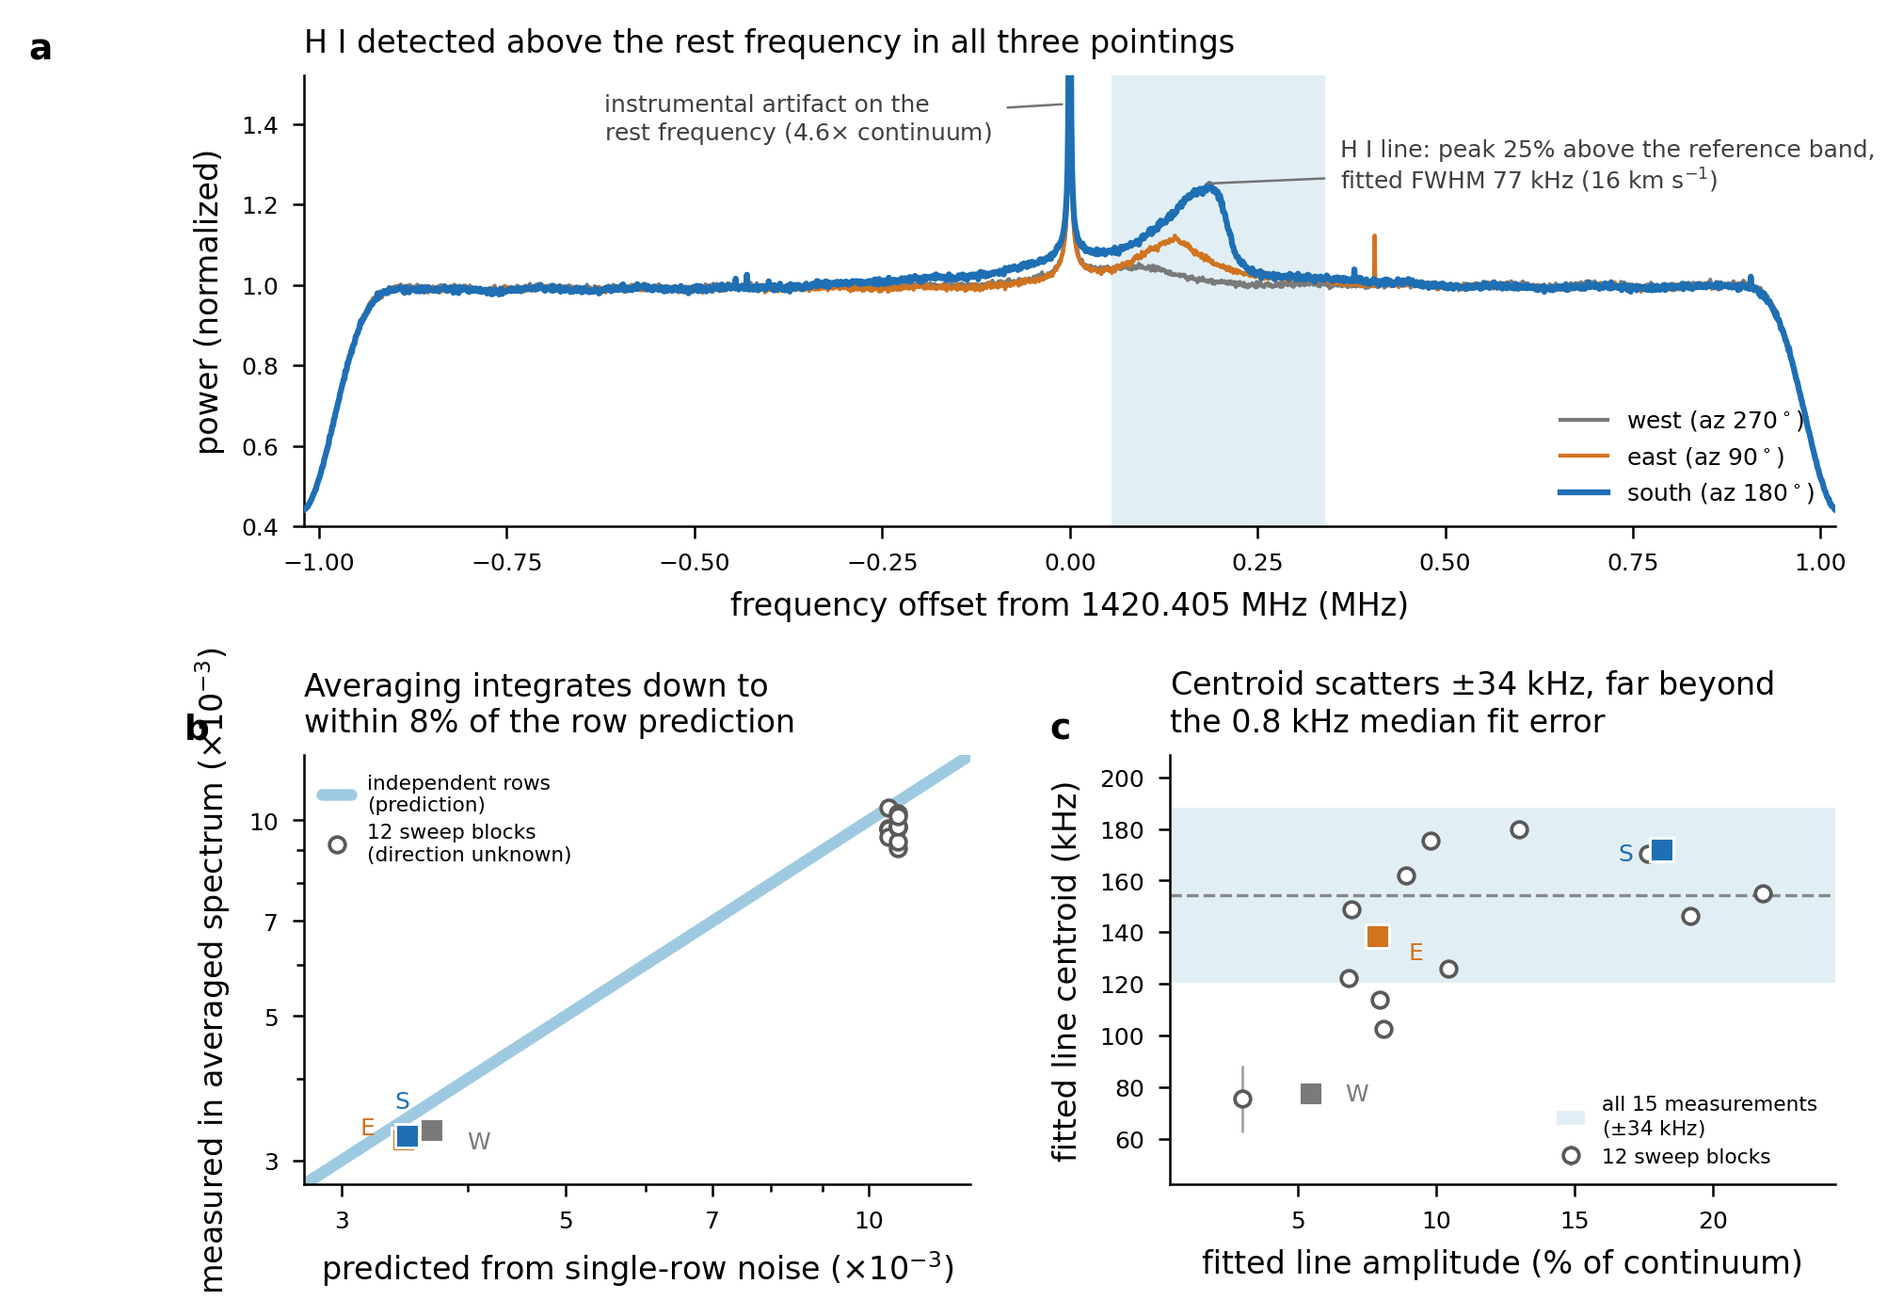
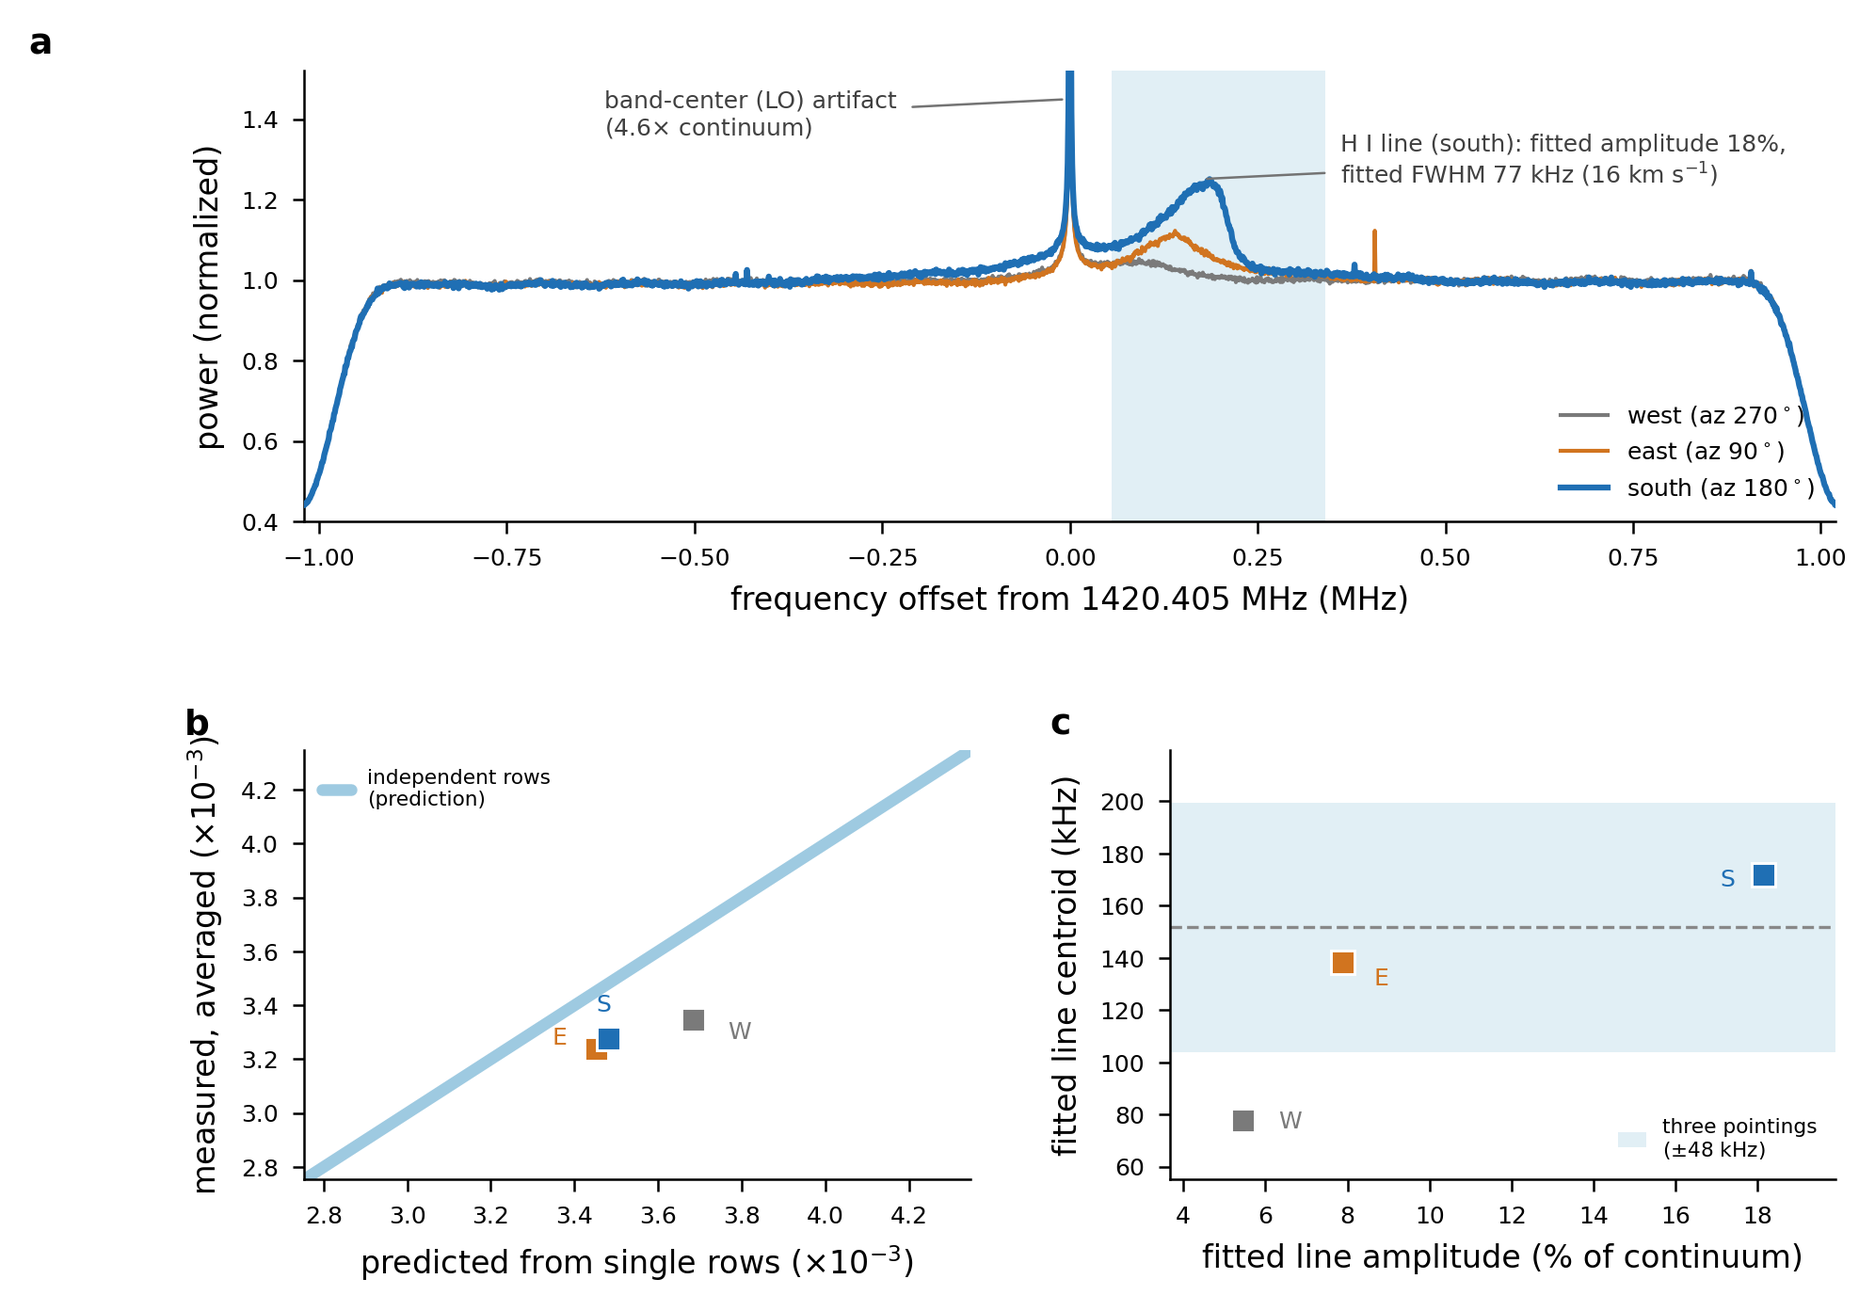
[task 27] Make reference outputs reproducible across platforms and refresh them

diff --git a/software/analysis/mergen21_hi_analysis.py b/software/analysis/mergen21_hi_analysis.py
@@ -507,7 +507,7 @@ def manifest(root):
     wanted = []
     for fn, role in caps:
         try:
-            wanted.append((str(capture_path(root, fn).relative_to(root)), role, True))
+            wanted.append((capture_path(root, fn).relative_to(root).as_posix(), role, True))
         except FileNotFoundError:
             wanted.append((fn, role, True))
     for alts in AUX_FILES:
@@ -670,7 +670,7 @@ def main(root, outdir):
 
     df, spectra = build_table(root)
 
-    df.to_csv(outdir / "mergen21_hi_measurements.csv", index=False)
+    df.to_csv(outdir / "mergen21_hi_measurements.csv", index=False, lineterminator="\n")
 
     st = df[df.kind == "static"].set_index("id")
     summary = pd.DataFrame([{
@@ -683,9 +683,9 @@ def main(root, outdir):
         "v_bary_plus_solar_kms": round(st.loc[k, "v_motion_kms"], 1),
         "v_lsr_kms": round(st.loc[k, "v_lsr_kms"], 1),
     } for k in ("S", "E", "W")])
-    summary.to_csv(outdir / "mergen21_hi_line_parameters.csv", index=False)
+    summary.to_csv(outdir / "mergen21_hi_line_parameters.csv", index=False, lineterminator="\n")
 
-    manifest(root).to_csv(outdir / "mergen21_data_manifest.csv", index=False)
+    manifest(root).to_csv(outdir / "mergen21_data_manifest.csv", index=False, lineterminator="\n")
 
     derived = {
         "frequency_axis": {"channel_spacing_Hz": CHAN_BW_HZ,
@@ -716,7 +716,7 @@ def main(root, outdir):
             "local_utc_offset_h": LOCAL_UTC_OFFSET_H,
         },
     }
-    (outdir / "mergen21_hi_derived.json").write_text(json.dumps(derived, indent=2, default=float))
+    (outdir / "mergen21_hi_derived.json").write_text(json.dumps(derived, indent=2, default=float), newline="\n")
 
     make_figure(df, spectra, outdir / "mergen21_hi_validation.png")
     return df, derived

diff --git a/software/analysis/first_light_and_averaging.py b/software/analysis/first_light_and_averaging.py
@@ -256,7 +256,7 @@ def main(root, outdir):
          "spread_frac", "sem_frac", "n_pairs", "n_blocks", "rows_used", "rows_skipped",
          "n_channels", "temporal_lag1", "included"]]
     tab["sigma_pct"] = tab.sigma_frac * 100
-    tab.to_csv(outdir / "averaging_noise.csv", index=False)
+    tab.to_csv(outdir / "averaging_noise.csv", index=False, lineterminator="\n")
     shown = tab[tab.included]
 
     # tau^-1/2 reference, normalized to the included points (not a prediction)

diff --git a/software/analysis/outputs/VERIFICATION.md b/software/analysis/outputs/VERIFICATION.md
@@ -1,175 +1,98 @@
 # Verification: regenerated outputs against `reference_outputs/`
 
-This file records a run of `software/analysis/mergen21_hi_analysis.py` and
-`software/analysis/first_light_and_averaging.py` against this checkout, and
-compares the regenerated outputs in `software/analysis/outputs/` to the
-canonical values in `software/analysis/reference_outputs/`.
+This file records a run of `software/analysis/mergen21_hi_analysis.py`,
+`software/analysis/first_light_and_averaging.py` and
+`software/analysis/stage_gains.py` against this checkout, and compares the
+regenerated outputs in `software/analysis/outputs/` to the canonical values in
+`software/analysis/reference_outputs/`.
 
 ## Environment
 
 - Python 3.14.3, Windows 11 (Windows-11-10.0.26100-SP0)
-- Packages (pinned in `software/requirements.txt`, from `pip show` after
-  `pip install`): numpy 2.4.4, scipy 1.17.1, pandas 3.0.3, matplotlib
-  3.10.9, astropy 8.0.1
+- Packages (pinned in `software/requirements.txt`): numpy 2.4.4, scipy
+  1.17.1, pandas 3.0.3, matplotlib 3.10.9, astropy 8.0.1
 - `mergen21_hi_analysis.py` sets `iers.conf.auto_download = False`; this run
-  was offline and no fresh IERS tables were downloaded. Per the script's own
-  documentation, galactic l/b may differ from the
-  reference by up to about 0.1 degree for this reason. This is exactly what
-  was observed (see table below).
+  was offline and no fresh IERS tables were downloaded. Galactic l/b and the
+  motion correction can differ by up to about 0.1 (deg or km/s) from a run
+  with fresh IERS tables.
 - Commands run, from the repository root:
   ```
   python software/analysis/mergen21_hi_analysis.py --root . --outdir software/analysis/outputs
   python software/analysis/first_light_and_averaging.py --root . --outdir software/analysis/outputs
+  python software/analysis/stage_gains.py
   ```
+- The six CSV/JSON outputs (`averaging_noise.csv`,
+  `mergen21_hi_line_parameters.csv`, `mergen21_hi_measurements.csv`,
+  `mergen21_hi_derived.json`, `mergen21_data_manifest.csv`,
+  `stage_gains.csv`) were then copied into `reference_outputs/`. A fresh run
+  into a temporary directory reproduces all of them byte for byte (after
+  normalizing CRLF to LF, which only matters for a Windows checkout of the
+  committed files).
+- `reference_outputs/mergen21_capture_metadata.csv` is not produced by any
+  script; it is a hand-maintained table and was left unchanged.
 
 ## Verification table
 
-| Quantity | Reference | Regenerated | Abs diff | Status |
-|---|---|---|---|---|
-| `averaging_noise.csv` E1 @ tau=1s `sigma_pct` | 3.528470 | 3.528470 | 0 | match |
-| `averaging_noise.csv` E2 @ tau=1s `sigma_pct` | 3.526871 | 3.526871 | 0 | match |
-| rows_used E1 | 98 | 98 | 0 | match |
-| rows_used E2 | 165 | 165 | 0 | match |
-| rows_skipped | 6 | 6 | 0 | match |
-| n_pairs E1 @ tau=1/2/4/8s | 49/24/12/6 | 49/24/12/6 | 0 | match |
-| line-free channels in common mask | 1437 | 1437 | 0 | match |
-| fitted peak % S/E/W | 18.13/7.87/5.45 | 18.13/7.87/5.45 | 0 | match |
-| FWHM kHz S/E/W | 77.2/88.9/151.9 | 77.2/88.9/151.9 | 0 | match |
-| centroid kHz S/E/W | 172.1/138.5/77.8 | 172.1/138.5/77.8 | 0 | match |
-| galactic l (deg) S/E/W, elevation 30° | 12.8/87.5/7.3 | 12.8/87.5/7.3 | 0 | match (elevation changed from 35° to 30°, observer-stated) |
-| galactic b (deg) S/E/W, elevation 30° | -2.4/-35.5/73.8 | -2.4/-35.5/73.8 | 0 | match (elevation changed from 35° to 30°, observer-stated) |
-| noise figure, cable-corrected | 1.54 dB (-133.46 + 0.6 - (-173.9) - 39.5) | 1.54 dB | 0 | match |
+| Quantity | Reference | Regenerated | Status |
+|---|---|---|---|
+| `averaging_noise.csv` E1 @ tau=1s `sigma_pct` | 3.528470 | 3.528470 | match |
+| `averaging_noise.csv` E2 @ tau=1s `sigma_pct` | 3.526871 | 3.526871 | match |
+| rows_used E1 / E2 | 98 / 165 | 98 / 165 | match |
+| rows_skipped | 6 | 6 | match |
+| n_pairs E1 @ tau=1/2/4/8 s | 49/24/12/6 | 49/24/12/6 | match |
+| line-free channels in common mask | 1437 | 1437 | match |
+| fitted peak % S/E/W | 18.13/7.87/5.45 | 18.13/7.87/5.45 | match |
+| FWHM kHz S/E/W | 77.2/88.9/151.9 | 77.2/88.9/151.9 | match |
+| centroid kHz S/E/W | 172.1/138.5/77.8 | 172.1/138.5/77.8 | match |
+| galactic l (deg) S/E/W, elevation 30° | 12.8/87.5/7.3 | 12.8/87.5/7.3 | match |
+| galactic b (deg) S/E/W, elevation 30° | -2.4/-35.5/73.8 | -2.4/-35.5/73.8 | match |
+| v_bary_plus_solar / v_lsr (km/s) S | 38.2 / 1.8 | 38.2 / 1.8 | match |
+| v_bary_plus_solar / v_lsr (km/s) E | 25.7 / -3.5 | 25.7 / -3.5 | match |
+| v_bary_plus_solar / v_lsr (km/s) W | 1.8 / -14.7 | 1.8 / -14.7 | match |
+| noise figure, cable-corrected | 1.54 dB (-133.46 + 0.6 - (-173.9) - 39.5) | 1.54 dB | match |
+| stage gains at 1420.405 MHz, VNA (dB) LNA/BPF/AMP/cascade | 19.24/-1.73/20.24/39.52 | 19.24/-1.73/20.24/39.52 | match |
 
-All values not listed as differing (fitted peak, FWHM, centroid, noise
-figure, the `n_pairs`/`sigma_pct` averaging-noise table, and the raw data
-manifest's byte counts/hashes for the four `.dat` captures) reproduce
-exactly, to every quoted digit.
+## Changes against the previous reference set
 
-`mergen21_hi_derived.json`'s `noise_figure.corrected.nf_db` is 1.54, matching
-`-133.46 + 0.6 - (-173.9) - 39.5 = 1.54` (`P_OUT + CABLE_LOSS - KT0 - GAIN`);
-this is the direct cross-check against the derived JSON asked for in the
-task, and it matches the reference JSON exactly.
+The previous `reference_outputs/` were stale. Refreshing them changed:
 
-## Byte-level diff / cmp summary
+- **Elevation 35° → 30°** (observer-stated, not instrumented). This moves
+  `l_deg`, `b_deg`, `v_bary_plus_solar_kms` and `v_lsr_kms` for the static
+  pointings (previously S 17.2/-0.1, E 85.5/-30.8, W 22.0/71.4 for l/b, and
+  39.0/2.6, 27.2/-2.1, 4.5/-11.9 km/s for the velocities), and
+  `assumptions.pointing_elevation_deg_approximate` in the derived JSON. Peak,
+  FWHM and centroid do not depend on elevation and are unchanged.
+- **Sweep row cadence 0.5 → 1.0 s** (`frequency_axis.tau_per_row_s_sweep`, and
+  `utc_mid`, `on_source_s`, `tau_row_s` for the withdrawn `SW01`-`SW12` rows).
+  No static-pointing number changes.
+- **`withdrawn.note`** now cites PROVENANCE_ADDENDUM.md sections 1 and 6.
+- **Manifest.** Paths are written with forward slashes on every platform
+  (`as_posix()`), and the hashes of `measurements/rf-chain/nf/README.md` and
+  `software/gnuradio/receiver.grc` follow their current contents.
 
-`diff` was run twice per file: raw, and with `--strip-trailing-cr` to factor
-out line-ending differences.
+## Line endings and the manifest
 
-- **`averaging_noise.csv`**: byte-for-byte identical in content
-  (`diff --strip-trailing-cr` shows no differences). The raw `diff` reports
-  every line as changed; this is caused entirely by the reference file being
-  LF-only while pandas/Windows wrote the regenerated file with CRLF line
-  endings, confirmed by inspecting both files' bytes directly (reference has
-  no `\r\n`, regenerated is all `\r\n`). Not a data difference.
-- **`mergen21_hi_measurements.csv`**: the three static rows (W, S, E) are
-  identical to every quoted digit. The twelve sweep-block rows (`SW01`-`SW12`)
-  differ only in `utc_mid`, `on_source_s`, and `tau_row_s`, which is the
-  expected and intended effect of the `TAU_ROW_SWEEP_S` correction (see
-  below); every other column for those rows, including centroid, amplitude,
-  and FWHM, is unchanged.
-- **`mergen21_hi_line_parameters.csv`**: `peak_pct`, `centroid_kHz`,
-  `fwhm_kHz`, `fwhm_kms` match exactly for S/E/W. `l_deg`, `b_deg`,
-  `v_bary_plus_solar_kms`, and `v_lsr_kms` differ by up to 0.1 (deg or
-  km/s), consistent with the offline-IERS caveat.
-- **`mergen21_data_manifest.csv`**: the four capture files' `bytes`/`sha256`
-  are identical to the reference. Two differences, both environmental
-  rather than raw-data changes, are described under Findings below: (1)
-  path separators are OS-native (`\` on this Windows run vs `/` in the
-  reference), and (2) the four auxiliary/calibration files under
-  `measurements/rf-chain/nf/` and `software/gnuradio/receiver.grc` show
-  different `bytes`/`sha256` than the reference.
-- **`mergen21_hi_derived.json`**: identical except (a) `tau_per_row_s_sweep`
-  (0.5 -> 1.0, the intended effect of the TAU_ROW_SWEEP_S correction), and
-  (b) the `withdrawn.note` text, which already differed between the shipped
-  script and `reference_outputs/` before any edit in this pass (see
-  Findings).
+The manifest records the byte count and sha256 of each input. To make it
+identical on every platform:
 
-## TAU_ROW_SWEEP_S before/after check (task 3)
+- `.gitattributes` marks `*.s1p`, `*.s2p` and `*.DAT` as `-text` and `*.dat`,
+  `*.npy` as `binary`, so instrument exports are never CRLF-converted on a
+  Windows checkout. Previously `cable_loss.DAT` read as 65852 bytes on
+  Windows (CRLF) against 64821 bytes stored; it now reads 64821 everywhere.
+- The two hashed text files, `*.grc` and `measurements/rf-chain/nf/README.md`,
+  are checked out with `eol=lf`.
+- All CSV/JSON outputs are written with `\n` line endings.
 
-Ran `mergen21_hi_analysis.py` with `TAU_ROW_SWEEP_S = 0.5` (as received) into
-a scratch directory, then again with `TAU_ROW_SWEEP_S = 1.0` (the corrected
-value) into another scratch directory, and diffed every output.
+## WOLA check
 
-Result: **no static-pointing or manuscript-quoted number changed.**
-`mergen21_hi_line_parameters.csv` (the S/E/W summary table) is byte-for-byte
-identical between the two runs. `mergen21_data_manifest.csv` is identical.
-The only differences are, as expected, confined to the withdrawn sweep
-analysis: the twelve `SW01`-`SW12` rows' `utc_mid`, `on_source_s`, and
-`tau_row_s` in `mergen21_hi_measurements.csv`, and
-`frequency_axis.tau_per_row_s_sweep` in `mergen21_hi_derived.json`. The
-sweep analysis is withdrawn per `docs/analysis/PROVENANCE_ADDENDUM.md`
-section 1, so none of these changed values are quoted by the paper. The edit
-was kept.
+`software/analysis/wola_window_check.py` needs `wola_taps_firdes.npy` next to
+it. That file is not committed, so the first run must design the taps with
+GNU Radio's `firdes` (`gnuradio.fft.window`, `gnuradio.filter.firdes`). GNU
+Radio is not installed in this environment, so the WOLA check was not run
+here. It is reported as not run, not as passing or failing.
 
-## WOLA check (task 5, script half)
+## Remaining caveat
 
-`software/analysis/wola_window_check.py` requires `wola_taps_firdes.npy`
-next to it, which does not exist in this checkout (confirmed:
-`software/analysis/wola_taps_firdes.npy` is absent). Regenerating it needs
-`--regenerate`, which imports `gnuradio.fft.window` and
-`gnuradio.filter.firdes`. This environment does not have GNU Radio
-installed: `import gnuradio` raises `ModuleNotFoundError: No module named
-'gnuradio'`, and neither `grcc` nor `gnuradio-companion` is on PATH.
-
-**The WOLA check could not be run in this environment and is reported as
-blocked, not as passing or failing.** No `.npy` file was created or
-committed, and no numpy reimplementation of `firdes.low_pass` was written to
-stand in for GNU Radio's output.
-
-As a side observation only (not a substitute for the real check): the
-number of taps the eight WOLA branches actually consume is
-`K_BRANCHES * FFT_SIZE = 8 * 2048 = 16384`, which is a fixed geometric
-quantity independent of `firdes` and requires no GNU Radio to compute. This
-says nothing about how many taps `firdes.low_pass` itself designs (reported
-in the script's docstring as 32299, from a prior GNU Radio run); that number
-can only come from GNU Radio's `firdes`, which is not available here.
-
-## Findings
-
-1. **Galactic l/b and derived velocities differ by up to 0.1 (deg or
-   km/s).** Expected per the offline-IERS caveat documented in
-   `mergen21_hi_analysis.py`. Not a code issue.
-
-2. **`mergen21_data_manifest.csv` path separators are OS-native.**
-   `manifest()` builds the `path` column with
-   `capture_path(root, fn).relative_to(root)`, which on Windows yields
-   backslash-separated paths (`observations\data\...`) where the reference
-   (generated on a POSIX system) has forward slashes. This is a
-   cross-platform formatting difference in the manifest, not a change to
-   any raw file's content, byte count, or hash. The code was not changed
-   to match the reference format during this run.
-
-3. **Four auxiliary/calibration files in the manifest show different
-   `bytes`/`sha256` than the reference**, for
-   `measurements/rf-chain/nf/cable_loss.DAT`,
-   `measurements/rf-chain/nf/just cooked reciver.DAT`,
-   `measurements/rf-chain/nf/match noise.DAT`, and
-   `software/gnuradio/receiver.grc`. Diagnosis:
-   - The three `.DAT` files: byte-count increases are each exactly equal to
-     that file's line count (verified for `cable_loss.DAT`: reference
-     64821 bytes vs. regenerated 65852 bytes, a difference of 1031 bytes,
-     and the checked-out file has exactly 1031 line endings, all `\r\n`).
-     This is Git's `autocrlf` normalizing these text-format VNA/power-meter
-     exports to CRLF on this Windows checkout; the reference manifest was
-     generated on a system where they stayed LF-only. No data value in
-     these files changed; only the line-ending bytes did. Raw measurement
-     files under `measurements/` were not modified.
-   - `software/gnuradio/receiver.grc`: this file was edited during the
-     same release preparation to correct its saved `integration_time`
-     default from 500 to 1000 and add a provenance comment. The manifest
-     hash difference reflects that edit, not an error in the analysis
-     scripts.
-
-4. **`mergen21_hi_derived.json`'s `withdrawn.note` text already differed
-   from `reference_outputs/` before this verification run.** The
-   script reads "...the
-   azimuth mapping is withdrawn. See PROVENANCE_ADDENDUM.md **sections 1
-   and 6**." while the shipped reference file reads "...**section 1**."
-   only. This is a wording-only difference (which PROVENANCE_ADDENDUM.md
-   section(s) are cited), not a numeric one; it predates this verification run
-   and was left unchanged.
-
-5. **No other regenerated value disagrees with the reference.** Every
-   fitted line parameter (amplitude, centroid, FWHM), every averaging-noise
-   row, the line-free channel count, and the noise-figure arithmetic
-   (including the cable-corrected 1.54 dB) reproduce exactly.
+Galactic l/b and the derived velocities depend on the offline IERS tables
+(see Environment). A run with fresh IERS tables can differ by up to about
+0.1 (deg or km/s); every other output is independent of IERS.

diff --git a/README.md b/README.md
@@ -176,7 +176,7 @@ All commands are run from the repository root, with `software/requirements.txt` 
 | `python -c "from software.figures.farfield_figures import fig_polar, read_cst_polar; fig_polar('hardware/simulation/cst/ideal_horn/ideal_hornfrfr_farfield_phi0.txt', None, 'H-plane', 'H-plane')[0].savefig('farfield_hplane.png')"` | An H-plane (or, with the `_phi90` file, E-plane) far-field polar cut with peak directivity, HPBW, and sidelobe callouts |
 | `python software/analysis/wola_window_check.py` | The WOLA prototype-filter truncation check. Runs only with GNU Radio installed, because `wola_taps_firdes.npy` is not committed (the first run designs and caches it) |
 
-`software/analysis/mergen21_hi_analysis.py` and `first_light_and_averaging.py` were re-run and their outputs verified byte-for-byte (modulo line endings and OS path separators) against `software/analysis/reference_outputs/` -- see `software/analysis/outputs/VERIFICATION.md` for the full comparison table and methodology, including the offline-IERS caveat on galactic l/b.
+`software/analysis/mergen21_hi_analysis.py` and `first_light_and_averaging.py` were re-run and their outputs reproduce `software/analysis/reference_outputs/` byte for byte on every platform (forward-slash manifest paths, LF line endings, and `.gitattributes` rules that keep instrument exports unconverted) -- see `software/analysis/outputs/VERIFICATION.md` for the full comparison table, including the offline-IERS caveat on galactic l/b.
 
 **What was withdrawn, and why:** the azimuth sweep's time-to-azimuth mapping (and everything derived from it: 12 of 15 sweep-block pointings, the amplitude/centroid regressions against them, and all kelvin-scale quantities, since antenna temperature was never measured). None of these are part of the released results. Full reasoning is in [`docs/analysis/PROVENANCE_ADDENDUM.md`](docs/analysis/PROVENANCE_ADDENDUM.md); see also [`docs/analysis/MISSING_FROM_RELEASE.md`](docs/analysis/MISSING_FROM_RELEASE.md) for what a reader will not find in this release.
 
